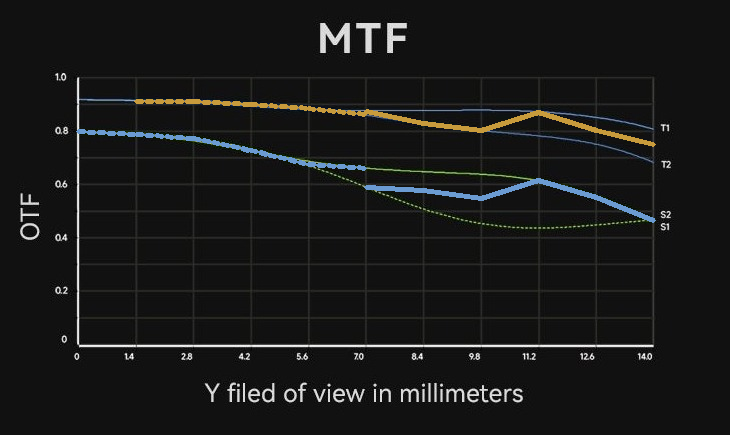
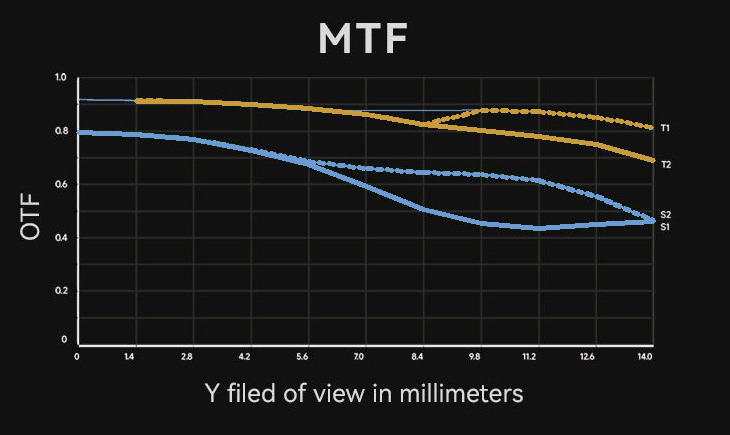
chore(mtf): refresh stale review overlays (after #1132) (#1144)
Now that py -m mtfdigitizer.review runs end-to-end on the full
reference set (PR #1143), regenerate the artifacts that have
drifted since their last commit:

- ttartisan-50mm-f1-2-mtf-max-overlay.png — pre-#1095 ridge-DP
  geometry was stale; the side effect called out in #1132's
  "Side effect" section.
- 7artisans-50mm-f1-2-mark-ii/mtf-chart-overlay.png — drifted
  since the same era.
- fujifilm-xf-23mm-f1-4-r-lm-wr-15lp-{overlay.png,review.html} —
  never committed; the GF 23 sibling had been but the XF
  counterpart was missed.

No code changes. Other reference charts produced byte-identical
PNGs (or CRLF-only HTML diffs that are pure platform noise) and
were left untouched.

diff --git a/docs/optical-specs/fujifilm-xf-23mm-f1-4-r-lm-wr/fujifilm-xf-23mm-f1-4-r-lm-wr-15lp-review.html b/docs/optical-specs/fujifilm-xf-23mm-f1-4-r-lm-wr/fujifilm-xf-23mm-f1-4-r-lm-wr-15lp-review.html
@@ -1,0 +1,72 @@
+<!doctype html>
+<html lang="en">
+  <head>
+    <meta charset="utf-8" />
+    <title>fujifilm-xf-23mm-f1-4-r-lm-wr-15lp - MTF review</title>
+    <style>
+      body {
+        font-family: ui-monospace, "Cascadia Code", monospace;
+        background: #1a1a2e;
+        color: #e0e0e0;
+        margin: 0;
+        padding: 1.5rem;
+      }
+      h1 {
+        font-size: 1.1rem;
+        margin: 0 0 1rem 0;
+        color: #d4a853;
+        font-weight: normal;
+      }
+      .grid {
+        display: grid;
+        grid-template-columns: 1fr 1fr;
+        grid-template-rows: auto auto;
+        gap: 1rem;
+        max-width: 1400px;
+      }
+      .panel {
+        background: #fff;
+        border: 1px solid #333;
+        padding: 0.75rem;
+        border-radius: 4px;
+        display: flex;
+        flex-direction: column;
+        gap: 0.5rem;
+      }
+      .panel.bottom { grid-column: 1 / span 2; }
+      .panel h2 {
+        font-size: 0.75rem;
+        margin: 0;
+        color: #666;
+        font-weight: normal;
+        text-transform: uppercase;
+        letter-spacing: 0.05em;
+      }
+      .panel img,
+      .panel object {
+        display: block;
+        width: 100%;
+        height: auto;
+        max-height: 60vh;
+        object-fit: contain;
+      }
+    </style>
+  </head>
+  <body>
+    <h1>fujifilm-xf-23mm-f1-4-r-lm-wr-15lp</h1>
+    <div class="grid">
+      <div class="panel">
+        <h2>Original</h2>
+        <img src="fujifilm-xf-23mm-f1-4-r-lm-wr-15lp.png" alt="Original MTF chart" />
+      </div>
+      <div class="panel">
+        <h2>Regenerated SVG</h2>
+        <img src="fujifilm-xf-23mm-f1-4-r-lm-wr-15lp.svg" alt="Regenerated MTF SVG from extracted readings" />
+      </div>
+      <div class="panel bottom">
+        <h2>Overlay (extractor curves over original)</h2>
+        <img src="fujifilm-xf-23mm-f1-4-r-lm-wr-15lp-overlay.png" alt="Extractor polylines overlaid on the original chart" />
+      </div>
+    </div>
+  </body>
+</html>
